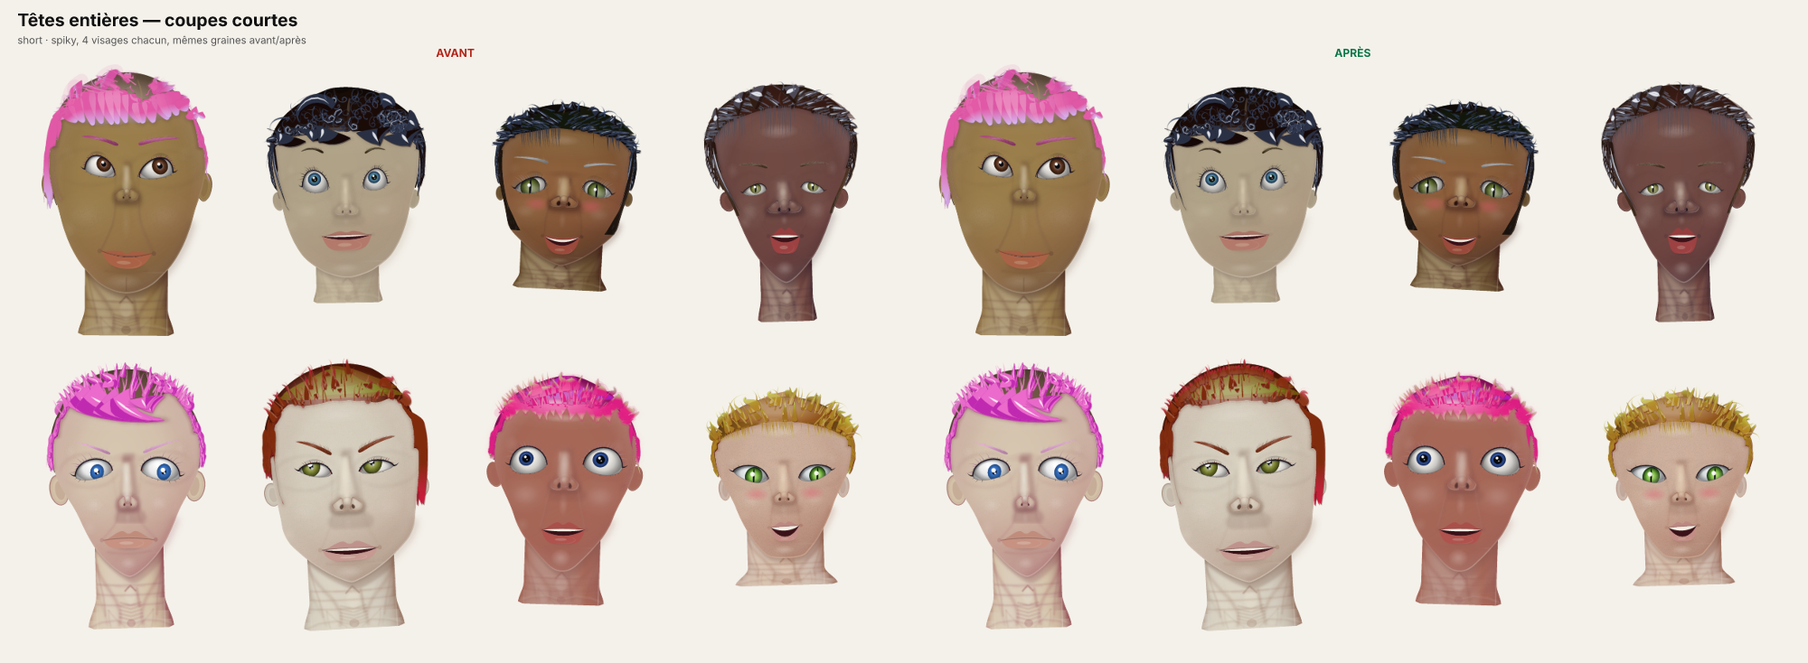
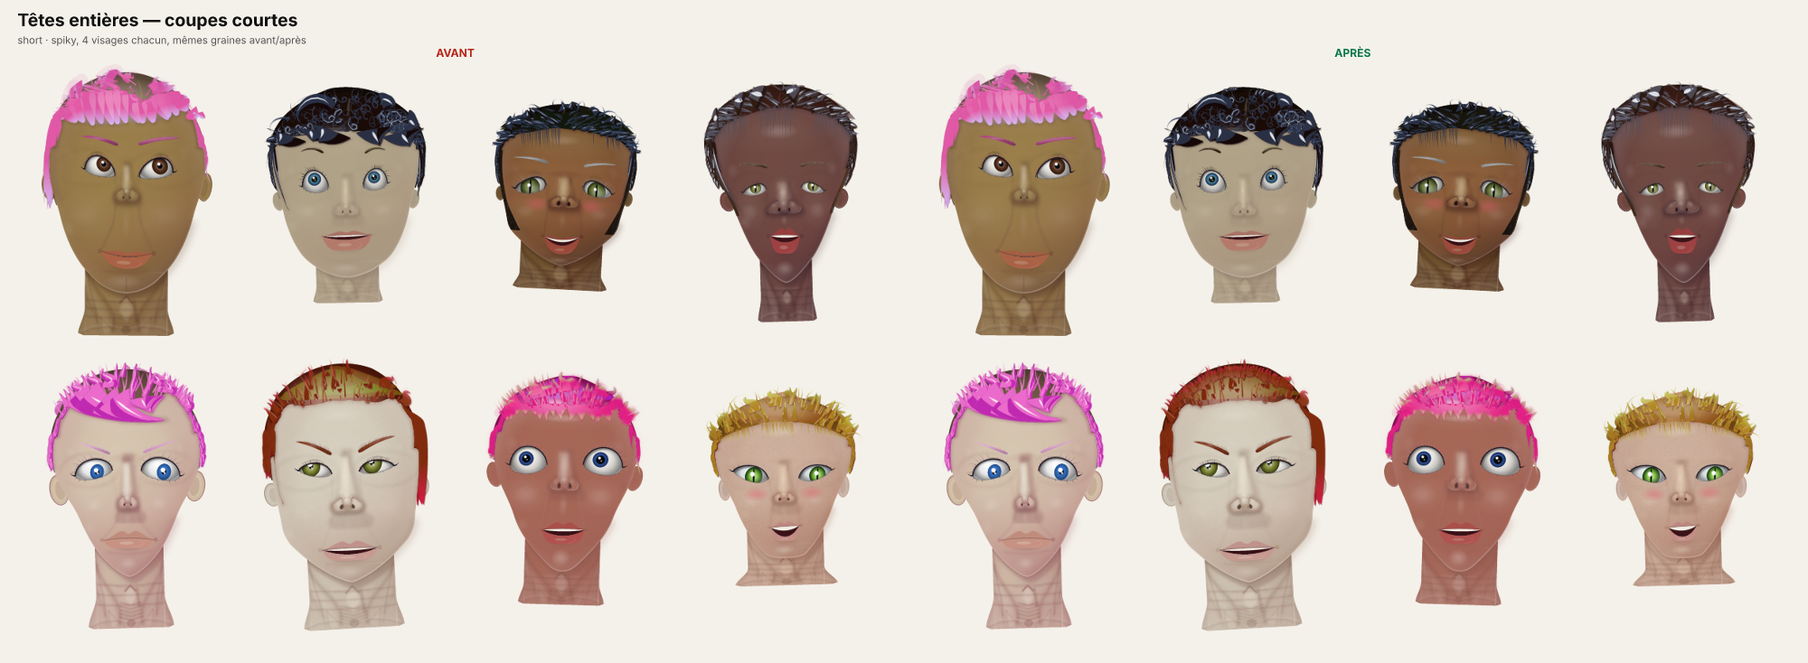
fix(hair): dôme des cheveux pendants — essais de racine du remplissage, teinte d'étage plafonnée, contrôle tier-hue-near-hair
- crown-fill : une mèche sans gain (le champ la ramène sur du déjà couvert) est refaite de 3 racines avant de condamner la cellule ;
  cibles bob/long resserrées (0,30/0,35). Bord nu mesuré : long 0,76 → 0,22, bob 0,76 → 0,35 (8 visages).
- hair-look : décalage de teinte des sous-couches d'étage plafonné à ±24° (tierHueShift, source unique rendu + vérification) ;
  avant, underHue × étage cumulait jusqu'à 66° (sous-couche vert olive sous cheveux rouges).
- verify/hair-form : contrôle tier-hue-near-hair + contrôle négatif (ancienne formule non bornée refusée).
- tests : hair-v2 « pointes » exclut les mèches de remplissage du total de sommets.
- artefacts : « avant » régénéré depuis 2869446 (parent du premier commit : même cou), rapport 8 contrôles ; docs et limites mises à jour (HAIR-FORM #9).

Claude-Session: https://claude.ai/code/session_012NmAWHjndng3LSVc1q7ofY

diff --git a/src/face/hair/crown-fill.ts b/src/face/hair/crown-fill.ts
@@ -39,8 +39,8 @@ export const FILL: Partial<Record<Style, FillSpec>> = {
   spiky: { rim: 0.4, all: 0.45, len: 0.09, max: 80 },
   curly: { rim: 0.25, all: 0.3, len: 0.12, max: 110 },
   afro: { rim: 0.2, all: 0.25, len: 0.16, max: 140 },
-  bob: { rim: 0.45, all: 0.5, len: 0.12, max: 60 },
-  long: { rim: 0.45, all: 0.5, len: 0.12, max: 60 },
+  bob: { rim: 0.3, all: 0.35, len: 0.12, max: 60 },
+  long: { rim: 0.3, all: 0.35, len: 0.12, max: 60 },
 };
 
 /**
@@ -131,20 +131,28 @@ export function fillShell(ctx: HairCtx, base: Poly, existing: readonly HairLock[
     }
     if (best < 0) break;
     const c = centerOf(g, best);
-    // Racine EN RETRAIT sur la normale (la mèche traverse la cellule en allant vers l'extérieur), toujours au-dessus de l'implantation.
+    // Essais de racine : en retrait sur la normale (la mèche traverse la cellule en allant vers l'extérieur), puis à la cellule, puis en retrait double.
+    // Une mèche qui ne couvre aucune cellule nouvelle (le champ la ramène sur du déjà couvert) est refaite d'un autre point avant de condamner la cellule.
     const len = spec.len * H, nrm = { x: c.x - ctx.C.x, y: c.y - ctx.C.y }, nl = Math.hypot(nrm.x, nrm.y) || 1;
-    let R: Vec = { x: c.x - (nrm.x / nl) * 0.5 * len, y: c.y - (nrm.y / nl) * 0.5 * len };
-    if (R.y > hl.yAt(R.x) - 0.012 * H || indexAt(g, R.x, R.y) < 0 || !inside[indexAt(g, R.x, R.y)]) R = c;
-    const pts = growLock(ctx, R, len);
-    // Rognée au bord de la coque : la mèche texture le contour, elle ne le dépasse pas.
-    let keep = pts.length;
-    for (let k = 2; k < pts.length; k++) { const q = pts[k] as Vec, ix = indexAt(g, q.x, q.y); if (ix < 0 || !inside[ix]) { keep = k; break; } }
-    if (keep < 5) { dead[best] = 1; continue; }
     const wd = (def.mainW[0] + def.mainW[1] * h.volume) * W * (0.9 + 0.3 * rnd());
-    const made = lockFrom(ctx, pts.slice(0, keep), { width: wd, rank: 'main', tone: -(0.04 + 0.26 * rnd()), layer: 'front', sharp: def.sharp, edgeFade: h.tips.edgeFade, flick: h.tips.flick, ragged: h.tips.irregular, reach: 'cranial' });
-    let gain = 0;
-    for (const l of made) gain += paint(g, l.poly, cover);
-    if (gain < 2) { dead[best] = 1; continue; }
+    const tone = -(0.04 + 0.26 * rnd());
+    let made: HairLock[] = [];
+    for (const back of [0.5, 0, 1]) {
+      let R: Vec = { x: c.x - (nrm.x / nl) * back * len, y: c.y - (nrm.y / nl) * back * len };
+      if (R.y > hl.yAt(R.x) - 0.012 * H || indexAt(g, R.x, R.y) < 0 || !inside[indexAt(g, R.x, R.y)]) R = c;
+      const pts = growLock(ctx, R, len);
+      // Rognée au bord de la coque : la mèche texture le contour, elle ne le dépasse pas.
+      let keep = pts.length;
+      for (let k = 2; k < pts.length; k++) { const q = pts[k] as Vec, ix = indexAt(g, q.x, q.y); if (ix < 0 || !inside[ix]) { keep = k; break; } }
+      if (keep < 5) continue;
+      const trial = lockFrom(ctx, pts.slice(0, keep), { width: wd, rank: 'main', tone, layer: 'front', sharp: def.sharp, edgeFade: h.tips.edgeFade, flick: h.tips.flick, ragged: h.tips.irregular, reach: 'cranial' });
+      // Gain mesuré sur une copie : on ne retient que l'essai qui couvre la cellule visée.
+      const probe = cover.slice(); let gain = 0;
+      for (const l of trial) gain += paint(g, l.poly, probe);
+      if (gain >= 2 && probe[best]) { made = trial; break; }
+    }
+    if (!made.length) { dead[best] = 1; continue; }
+    for (const l of made) paint(g, l.poly, cover);
     strands++;
     out.push(...made.map((l): HairLock => ({ ...l, fill: strands })));
   }

diff --git a/src/verify/hair-form.ts b/src/verify/hair-form.ts
@@ -1,3 +1,4 @@
+import { toHsl } from '../appearance';
 import { faceLandmarks } from '../face';
 import { hairGeometry, type HairGeometry } from '../face/hair';
 import { FILL, fillKeep, relaxedBare, shellCoverage } from '../face/hair/crown-fill';
@@ -5,6 +6,7 @@ import { distanceOutsideSkull } from '../face/hair/thickness';
 import { REACH } from '../face/hair/reach';
 import { inPoly } from '../face/poly';
 import type { RandomFace } from '../generation/random-face';
+import { UNDER_HUE_MAX, hairAppearance, tierHueShift } from '../render/face/hair-look';
 import { check, type Check } from './types';
 
 /**
@@ -23,12 +25,17 @@ import { check, type Check } from './types';
  *    `fill-clears-free-ear-{left,right}`  aucune mèche de corps dans la zone d'une oreille qui doit rester dégagée
  *                           (une mèche sous l'implantation n'est PAS une erreur : frange et cheveux pendants y descendent ; yeux et sourcils : `guard.ts`) ;
  *  STYLE      — la forme reste du cheveu de la coiffure :
+ *    `tier-hue-near-hair`   la sous-couche d'étage reste dans la famille de teinte des cheveux : écart de teinte (rendu) ≤ `UNDER_HUE_MAX` + 24° (`tone()` seul en
+ *                           décale jusqu'à 21° : mesuré sur 720 étages) ; avant le plafond, 66° : sous-couche vert olive sous des cheveux rouges. Cheveux gris (saturation < 0,15) exclus ;
  *    `fill-style-scope`     seules les coiffures de `FILL` reçoivent un remplissage, dans son plafond : chignon, queue, tresses, coupe rase et cheveux simulés restent des aplats / leur propre moteur.
  */
 type Style = Exclude<RandomFace['params']['hair']['style'], 'bald'>;
 const HANG: readonly string[] = ['bob', 'long'];
 
-export function checkHairForm(face: RandomFace, override?: HairGeometry): Check[] {
+const hueGap = (a: number, b: number): number => { const d = Math.abs(a - b) % 360; return Math.min(d, 360 - d); };
+
+/** `shift` : décalage de teinte appliqué à un étage (le rendu) ; remplaçable pour les contrôles négatifs. */
+export function checkHairForm(face: RandomFace, override?: HairGeometry, shift: typeof tierHueShift = tierHueShift): Check[] {
   const p = face.params;
   if (p.hair.style === 'bald') return [];
   const lm = faceLandmarks(p, face.width, face.height);
@@ -60,6 +67,12 @@ export function checkHairForm(face: RandomFace, override?: HairGeometry): Check[
   }
 
   // --- style ---
+  const ra = hairAppearance(p.hair), base = toHsl(ra.base);
+  if (base.s >= 0.15 && geo.tierMasses.length) {
+    let gap = 0;
+    for (const m of geo.tierMasses) gap = Math.max(gap, hueGap(toHsl(ra.tone(p.hair.tiers.underTone * Math.min(1, 0.6 + 0.2 * m.tier))).h + shift(p.hair, m.tier), base.h));
+    out.push(check('style', 'tier-hue-near-hair', '<=', gap, UNDER_HUE_MAX + 24, 'la sous-couche d\'étage change de famille de teinte : plaque étrangère sous les mèches'));
+  }
   const nFill = new Set(geo.locks.filter((l) => l.fill).map((l) => l.fill)).size;
   out.push(check('style', 'fill-style-scope', '<=', nFill, spec && !p.hair.sim.enabled ? spec.max : 0, spec && !p.hair.sim.enabled ? 'plus de mèches de remplissage (indices distincts) que le plafond de la coiffure' : 'cette coiffure est un aplat (rase, attachée, simulée) : elle ne reçoit aucune mèche de remplissage'));
   return out;

diff --git a/src/render/face/hair.ts b/src/render/face/hair.ts
@@ -11,7 +11,7 @@ import type { FaceParams } from '../../schema';
 import { hairGloss, hairlineTransition, smoothPath } from './hair-detail';
 import { lockMarkup, type LockStyle } from './hair-lock';
 import { backMassFill } from './hair-back-fade';
-import { backMassColor, hairAppearance, rootColorOf } from './hair-look';
+import { backMassColor, hairAppearance, rootColorOf, tierHueShift } from './hair-look';
 import { polyPath } from './path';
 import { profileOf } from '../../face/hair/sim/profiles';
 import { sheenBands } from '../../face/hair/sim/sheen';
@@ -91,7 +91,7 @@ export function renderHair(id: string, p: FaceParams, lm: FaceLandmarks, L: Ligh
   // Sous-couches visibles par étage : silhouette plus sombre / décalée de teinte, sous les mèches de l'étage.
   // Une silhouette d'étage englobe la tête : DEVANT la tête elle est rognée par la sous-couche (jamais sur le visage),
   // et une copie est dessinée DERRIÈRE la tête pour la part qui dépasse du crâne.
-  const massEl = (m: (typeof geo.tierMasses)[number]): string => el('path', { d: smoothPath(m.poly), fill: hueShift(ra.tone(h.tiers.underTone * Math.min(1, 0.6 + 0.2 * m.tier)), h.tiers.underHue * m.tier), opacity: h.tiers.underVisible });
+  const massEl = (m: (typeof geo.tierMasses)[number]): string => el('path', { d: smoothPath(m.poly), fill: hueShift(ra.tone(h.tiers.underTone * Math.min(1, 0.6 + 0.2 * m.tier)), tierHueShift(h, m.tier)), opacity: h.tiers.underVisible });
   if (geo.tierMasses.length) body.push(el('g', { 'clip-path': urlRef(clipId) }, geo.tierMasses.map(massEl)));
   back.unshift(...geo.tierMasses.map(massEl));
   if (geo.simMass) body.push(el('path', { d: smoothPath(geo.simMass), fill: ink ?? ra.tone(-0.42), stroke: ink, 'stroke-width': ink ? lm.W * 0.0042 : undefined, 'stroke-linejoin': 'round' }));

diff --git a/tests/hair-form.test.ts b/tests/hair-form.test.ts
@@ -5,6 +5,7 @@ import { gridOver, paint } from '../src/face/hair/coverage';
 import { FILL, shellCoverage } from '../src/face/hair/crown-fill';
 import { inPoly } from '../src/face/poly';
 import { checkHairForm } from '../src/verify/hair-form';
+import type { tierHueShift } from '../src/render/face/hair-look';
 import { HAIR_STYLES } from '../src/schema';
 import { hairFaceSpec, type CleanStyle } from '../scripts/lib/hair-faces';
 
@@ -136,5 +137,17 @@ describe('contrôles négatifs : chaque contrôle sait échouer', () => {
     expect(b, 'population contrôlée non vide').toBeDefined();
     const far = { ...b!, poly: b!.poly.map((q) => ({ x: q.x + Math.sign(q.x || 1) * 0.6 * lmOf(f).W, y: q.y })) };
     expect(failing(f, { ...g, locks: [...g.locks, far] } as HairGeometry).map((c) => c.id)).toContain('fill-within-reach');
+  });
+
+  it('tier-hue-near-hair : la teinte d\'étage cumulée sans plafond (ancien rendu) est refusée, le rendu actuel est accepté', () => {
+    const uncapped = ((h: { tiers: { underHue: number } }, t: number) => h.tiers.underHue * t) as typeof tierHueShift;
+    for (let k = 0; k < 40; k++) {
+      const f = face('long', k), p = f.params.hair;
+      if (p.tiers.count < 3 || Math.abs(p.tiers.underHue) * p.tiers.count < 60) continue;
+      expect(checkHairForm(f, undefined, uncapped).filter((c) => !c.ok).map((c) => c.id)).toContain('tier-hue-near-hair');
+      expect(checkHairForm(f).filter((c) => !c.ok).map((c) => c.id)).not.toContain('tier-hue-near-hair');
+      return;
+    }
+    throw new Error('aucun visage à étages très décalés dans l\'échantillon');
   });
 });

diff --git a/scripts/artefacts-hair-form.ts b/scripts/artefacts-hair-form.ts
@@ -122,7 +122,7 @@ async function compose(): Promise<void> {
   pair('tetes-courtes', 1200, 800, '01a-tetes-short-spiky', 'Têtes entières — coupes courtes', 'short · spiky, 4 visages chacun, mêmes graines avant/après', false);
   pair('tetes-volume', 1200, 800, '01b-tetes-curly-afro', 'Têtes entières — coupes volumineuses', 'curly · afro : le dôme est dessiné par des mèches, plus un casque lisse', false);
   pair('tetes-pendantes', 1200, 800, '01c-tetes-bob-long', 'Têtes entières — cheveux pendants', 'bob · long : le dessus du crâne reçoit des mèches ; la retombée est inchangée', false);
-  pair('tetes-inchangees', 1200, 1600, '01d-tetes-non-modifiees', 'Contrôle négatif — coiffures qui ne doivent PAS changer', 'buzz · bun · ponytail · braids : aplats par anatomie, identiques avant/après', false);
+  pair('tetes-inchangees', 1200, 1600, '01d-tetes-non-modifiees', 'Contrôle négatif — coiffures qui ne doivent PAS changer', 'buzz · bun · ponytail · braids : aucune mèche ajoutée (aplats par anatomie) ; seule la teinte des sous-couches d\'étage, plafonnée à 24°, change sur 6 visages', false);
   pair('details', 2300, 520, '03-details-dessus-du-crane', 'Détails : dessus du crâne', 'afro · curly · short · spiky · long en gros plan', true);
   await overlay();
   const { rows, faces, cov, same } = await report();

diff --git a/src/render/face/hair-look.ts b/src/render/face/hair-look.ts
@@ -32,6 +32,14 @@ export const backMassColor = (ra: ResolvedAppearance): string => ra.tone(BACK_MA
 export const ROOT_MIN_RATIO = 0.42;
 
 /**
+ * Décalage de teinte MAXIMAL (degrés) d'une sous-couche d'étage par rapport aux cheveux (`docs/HAIR-FORM.md`). Avant : `underHue × étage`, cumulé sans borne
+ * (16,5° × 4 étages = 66° : des cheveux rouges montraient une sous-couche vert olive, lue comme une plaque étrangère sur le dessus du crâne). Un ombré d'étage
+ * reste dans la famille de teinte des cheveux. Source unique : rendu ET vérification.
+ */
+export const UNDER_HUE_MAX = 24;
+export const tierHueShift = (h: FaceParams['hair'], tier: number): number => Math.max(-UNDER_HUE_MAX, Math.min(UNDER_HUE_MAX, h.tiers.underHue * tier));
+
+/**
  * Teinte de la sous-couche racine (coque). `rootColor` explicite (repousse brune sur cheveux teints, 15 % des visages) ou ombre à 55 %. Mesuré avant :
  * rapport de luminance racine / cheveux jusqu'à 0,02 (#2b2320 sous #c58614) : un dôme noir sous des mèches clairsemées, où le reflet satin de la coque
  * se lit comme un trou gris. La teinte est ramenée vers la couleur des cheveux juste assez pour atteindre `ROOT_MIN_RATIO` (dichotomie, direction de teinte conservée).

diff --git a/tests/hair-v2.test.ts b/tests/hair-v2.test.ts
@@ -162,8 +162,9 @@ describe('racines, côtés, occlusions, étages, pointes', () => {
   it('pointes : retroussées (direction change) et irrégulières (plus de sommets)', () => {
     const a = geoOf(36, { ...BASE, flow: { mode: 'classic' } }).geo;
     const b = geoOf(36, { ...BASE, tips: { irregular: 1, flick: 1 } }).geo;
-    const vA = a?.locks.reduce((s, l) => s + l.poly.length, 0) ?? 0;
-    const vB = b?.locks.reduce((s, l) => s + l.poly.length, 0) ?? 0;
+    // Hors remplissage de coque : son nombre de mèches dépend de la géométrie (boucle jusqu'au seuil), pas des pointes.
+    const vA = a?.locks.filter((l) => !l.fill).reduce((s, l) => s + l.poly.length, 0) ?? 0;
+    const vB = b?.locks.filter((l) => !l.fill).reduce((s, l) => s + l.poly.length, 0) ?? 0;
     expect(vB).toBeGreaterThan(vA);
   });
 

diff --git a/docs/HAIR-FORM.md b/docs/HAIR-FORM.md
@@ -9,15 +9,15 @@ lisse dont le bord faisait la silhouette** (aucune texture de cheveu sur 0,25 H 
 
 | coiffure | avant moy. | avant max | après moy. | après max |
 |---|---:|---:|---:|---:|
-| short | 0,60 | 0,83 | 0,41 | 0,47 |
-| spiky | 0,47 | 0,74 | 0,42 | 0,59 |
-| curly | 0,56 | 0,78 | 0,33 | 0,56 |
-| afro | 0,70 | 0,88 | 0,31 | 0,43 |
-| bob | 0,76 | 0,98 | 0,53 | 0,64 |
-| long | 0,76 | 0,93 | 0,47 | 0,68 |
+| short | 0,60 | 0,83 | 0,36 | 0,40 |
+| spiky | 0,47 | 0,74 | 0,41 | 0,58 |
+| curly | 0,56 | 0,78 | 0,32 | 0,55 |
+| afro | 0,70 | 0,88 | 0,29 | 0,41 |
+| bob | 0,76 | 0,98 | 0,35 | 0,58 |
+| long | 0,76 | 0,93 | 0,22 | 0,31 |
 
-Les coiffures attachées (`ponytail`, `bun`, `braids`) et la coupe rase (`buzz`) sont **inchangées au bit près** (`artefacts/hair-form/01d`, comparaison des PNG) : leur aplat est leur anatomie.
-Ce n'est pas zéro : il reste 30 à 50 % du bord nu pour les coiffures à volume (voir `HAIR-FORM-REMAINING.md` 1).
+Les coiffures attachées (`ponytail`, `bun`, `braids`) et la coupe rase (`buzz`) ne reçoivent **aucune mèche** (`artefacts/hair-form/01d`) : leur aplat est leur anatomie. Pixels : égaux au bit à l'« avant » avec le plafond de teinte désactivé ; avec lui, seule la teinte d'étage de 6 visages change (voir plus bas).
+Ce n'est pas zéro : il reste 30 à 40 % du bord nu pour les coiffures à volume (voir `HAIR-FORM-REMAINING.md` 1).
 
 ## La mesure : grille de couverture (`coverage.ts`)
 Rastérisation scanline sur une grille de pas 0,012 W, règle **nonzero** (comme le rendu SVG des mèches : une mèche bouclée dont le contour se recoupe reste couverte ; `inPoly` pair-impair y ferait un trou).
@@ -29,11 +29,21 @@ Pour `short, spiky, curly, afro, bob, long` (table `FILL` : seuils `rim` / `all`
 extérieure (départage aléatoire d'une demi-cellule), on y enracine une mèche du style local (`growLock` + `lockFrom` : même champ de direction, même texture, même largeur que les mèches de corps),
 en retrait sur la normale, puis on la **rogne au bord de la coque** : elle texture le contour sans le dépasser. Une mèche qui n'ajoute pas ≥ 2 cellules est abandonnée.
 - **Graine propre** et exécution **en dernier** : le reste de la chevelure est identique avec ou sans remplissage. Vérifié : 80 visages sur 80 ont le même nombre de formes qu'avant, hors remplissage
-  (comparaison avec le code du commit d'origine rendu dans un worktree ; `rapport-verification.md`).
+  (comparaison avec le parent `2869446` du premier commit, rendu dans un worktree ; `rapport-verification.md`).
 - **Oreille dégagée** : les formes qui entrent dans la zone d'une oreille libre sont écartées. **Éclaircissement** : `bareScalp(...).thin` (zones clairsemées voulues) n'est ni enraciné ni exigé ; la cible est
   relâchée par `fillKeep = 1 − 0,5 × thinning` (source unique). La densité n'y entre pas (essayé : la prendre en compte rendait presque tout le gain, bord nu de l'afro 0,26 → 0,45).
 - Les formes portent `fill = indice de la mèche` (`HairLock.fill`) : une mèche tressée est plusieurs formes. Les mesures de dispersion de longueur les excluent (`tests/hair-system.test.ts`).
+- **Essais de racine** (série 2) : une mèche qui n'ajoute aucune cellule nouvelle (le champ la ramène sur du déjà couvert) et ne couvre pas la cellule visée est refaite d'un autre point (retrait 0,5 puis 0 puis 1 longueur)
+  avant de condamner la cellule. Mesuré avant : 1 264 mèches abandonnées sur 1 561 échecs (`bob`/`long`, 10 visages), la boucle s'arrêtait à 20–40 mèches sans atteindre sa cible (bord nu `long` 0,52, `bob` 0,60).
+- **Cibles `bob` / `long` resserrées** (0,45/0,50 → 0,30/0,35) : le dessus du crâne des cheveux pendants montrait la sous-couche racine en plaque. Mesuré : bord nu `long` 0,52 → 0,33 → (8 visages imposés) 0,22, `bob` 0,60 → 0,30.
 - Pas de remplissage pour les cheveux simulés (`sim.enabled`) : leur drapé est résolu par leur moteur.
+
+## La « plaque » sur le dessus des cheveux longs (cause trouvée)
+Deux causes, aucune n'était la raie ni l'éclaircissement (`thinning` = 0, aucune zone claire sur les visages examinés) :
+1. **Couverture** : le dôme de `bob`/`long` restait nu (bord nu 0,52–0,60), la sous-couche racine se voyait. Corrigé ci-dessus (essais de racine, cibles).
+2. **Teinte d'étage cumulée sans borne** : la sous-couche d'un étage était décalée de `tiers.underHue × étage` (jusqu'à 16,5° × 4 = 66° sur le visage rouge examiné) : des cheveux rouges montraient une
+   sous-couche **vert olive**. Le décalage est désormais borné à ±`UNDER_HUE_MAX` = 24° (`tierHueShift`, `hair-look.ts`, source unique rendu + vérification).
+Non traité : la racine sombre voulue (`rootColor`, tirée sur ~14 % des visages : racines brunes sous cheveux teints) reste visible sur le rose ; c'est un choix du moteur, plus couvert par les mèches mais pas supprimé.
 
 ## La couche de vérification (`hair-form.ts`, branchée dans `verifyFace`)
 | couche | contrôle | gravité | règle |
@@ -43,9 +53,10 @@ en retrait sur la normale, puis on la **rogne au bord de la coque** : elle textu
 | géométrie | `fill-within-reach` | erreur | forme bornée ≤ portée de la coiffure (`REACH`) + vent + 0,02 W |
 | géométrie | `fringe-reach-bound` | erreur | frange ≤ `REACH.side` + 0,05 W du crâne (max mesuré 0,161 W sur le corpus) |
 | anatomie | `fill-clears-free-ear-{left,right}` | erreur | ≤ 3 mèches dans la zone d'une oreille qui doit rester dégagée (max mesuré 2) |
+| style | `tier-hue-near-hair` | erreur | écart de teinte rendu (sous-couche d'étage / cheveux) ≤ `UNDER_HUE_MAX` + 24° (`tone()` seul en décale jusqu'à 21° ; max mesuré 33,5°) ; gris exclus |
 | style | `fill-style-scope` | erreur | nombre de mèches de remplissage ≤ plafond de la coiffure ; 0 pour rase, attachées, simulées |
 
-Chaque contrôle a un **contrôle négatif** qui le fait échouer (`tests/hair-form.test.ts`, 14 tests). Corpus de mesure : 10 coiffures × 8 visages imposés + 120 visages aléatoires (rapport : `artefacts/hair-form/rapport-verification.md`).
+Chaque contrôle a un **contrôle négatif** qui le fait échouer (`tests/hair-form.test.ts`, 15 tests ; le contrôle de teinte est refusé avec l'ancienne formule non bornée). Corpus de mesure : 10 coiffures × 8 visages imposés + 120 visages aléatoires (rapport : `artefacts/hair-form/rapport-verification.md`).
 
 ## Essais abandonnés (honnêteté du processus)
 - **`fill-above-hairline`** (« aucune mèche sous l'implantation ») : écrit, mesuré, retiré. Sa première version ne contrôlait personne (0,000 : population vide, les mèches de corps sont `kind: 'lock'`, pas `undefined`).

diff --git a/docs/HAIR-FORM-REMAINING.md b/docs/HAIR-FORM-REMAINING.md
@@ -3,18 +3,18 @@
 Fait : `HAIR-FORM.md`. Chaque ligne est une limite mesurée ou constatée sur les planches `artefacts/hair-form/` ; rien n'est caché. Les listes précédentes restent valables : `HAIR-SKULL-REMAINING.md`, `HAIR-COHERENCE-REMAINING.md`, `HAIR-BOUNDARY-REMAINING.md`.
 
 ## Remplissage de la coque (`crown-fill.ts`)
-1. **Bord encore nu** : 0,31 (afro) à 0,53 (bob) en moyenne, jusqu'à 0,68 (long). 4 visages sur 121 dépassent le seuil d'avertissement `shell-rim-bare` (marge minimale −0,095). Les cibles `FILL.rim` (0,2 à 0,45) ne sont pas atteintes partout : la boucle s'arrête au plafond ou faute de mèche utile.
+1. **Bord encore nu** : 0,22 (long) à 0,41 (spiky) en moyenne sur 8 visages, jusqu'à 0,58. 1 visage sur 121 dépasse le seuil d'avertissement `shell-rim-bare` (marge minimale −0,088). Les cibles `FILL.rim` (0,2 à 0,45) ne sont pas atteintes partout : la boucle s'arrête au plafond ou faute de mèche utile.
 2. **Seuils et longueurs posés à la main** (`rim`, `all`, `len`, `max`, 0,5 pour le bord, 0,75 dur) sur 80 visages imposés + 120 aléatoires ; pas de référence dessinée par un illustrateur.
 3. **Longueur de remplissage fixe** (`FILL.len` × H) : pas dérivée de la longueur réelle de la coiffure ni de `lengthVariance`.
 4. **Raie (`bare.part`)** : non exclue du remplissage ; des mèches peuvent la recouvrir. Non mesuré.
-5. **Coût** : boucle en O(plafond × cellules). Huit géométries `afro` (génération du visage comprise) ≈ 2,1 s ; le coût du remplissage seul n'a pas été isolé. Pistes : grille plus grossière, file de priorité, cache par mèche.
+5. **Coût** : boucle en O(plafond × cellules), avec jusqu'à 3 essais de racine par cellule (une copie de la grille de couverture par essai). Mesuré : 8 `hairGeometry` d'afro ≈ 1,9 s (≈ 230 ms chacune, géométrie seule, remplissage compris ; son coût isolé n'a pas été mesuré). Pistes : grille plus grossière, file de priorité, essais sans copie de grille.
 6. **Pas d'interrupteur** du remplissage dans le moteur : le « avant » des artefacts se rend depuis un worktree du commit d'origine (`artefacts/hair-form/README.md`).
 7. **Coiffures hors `FILL`** : `ponytail` (bord nu 0,88 en moyenne), `bun` (jusqu'à 1,00), `braids`, `buzz` (0,98) restent des aplats. Choisi pour l'anatomie (cheveux tirés, ras), mais le dessus d'un chignon ou d'une queue montre un dôme lisse : revue humaine à faire.
 
 ## Défauts visibles NON traités
 8. **Frange en dents de scie** du `short` (festons réguliers à pointes, `artefacts/hair-form/05` visage 1, ancien `HAIR-BOUNDARY-REMAINING.md` 6) : toujours là. Le bord inférieur de la frange n'est pas régularisé.
-9. **Plaque de cuir chevelu visible** sur le dessus du `long` rose et du `long` rouge (`01c`, rangée du bas) : inchangée ; cause non vérifiée (raie, éclaircissement ou sous-couche).
-10. **`bob` / `long`** : avant/après quasi indiscernables à l'échelle des planches ; le gain est mesuré (bord nu 0,76 → 0,53 et 0,47) mais peu lisible. La retombée n'a pas été retravaillée (`HAIR-SKULL-REMAINING.md` 10 : masse arrière = rectangle arrondi).
+9. **Plaque sur le dessus du `long`** : cause trouvée et corrigée en grande partie (couverture du dôme + teinte d'étage vert olive plafonnée à 24°, `HAIR-FORM.md`). **Reste** : la racine sombre voulue (`rootColor`, ~14 % des visages) reste visible sous des cheveux teints (rose, `01c` rangée du bas, 1ʳᵉ tête). Le plafond de 24° et le seuil de 48° sont posés sur 720 étages mesurés, pas sur une référence artistique.
+10. **`bob` / `long`** : avant/après quasi indiscernables à l'échelle des planches ; le gain est mesuré (bord nu 0,76 → 0,35 et 0,22) et visible sur le dessus du crâne (`01c`), peu à l'échelle de la retombée. La retombée n'a pas été retravaillée (`HAIR-SKULL-REMAINING.md` 10 : masse arrière = rectangle arrondi).
 11. **Dôme lisse résiduel** sur certains afros (rangée du bas de `01b`, visage rouge) : le bord reste nu à 0,43 au pire.
 
 ## Vérification (`hair-form.ts`)
@@ -24,7 +24,7 @@ Fait : `HAIR-FORM.md`. Chaque ligne est une limite mesurée ou constatée sur le
 15. « Rapport OK » ≠ beauté. **Revue humaine nécessaire** sur `artefacts/hair-form/01a`–`01d`, `03`, `05`.
 
 ## Régression visuelle
-16. `npm run regress` relancé après cette série : exit 0, tous les cas `exact` (identiques au pixel). Les 34 images ne contiennent donc aucune coiffure touchée par le remplissage (cause de ce choix de cas non vérifiée). Aucune référence actualisée ; en ajouter avec `afro`, `curly`, `short`, `long` est une décision d'équipe.
+16. `npm run regress` relancé après cette série (et après la série 2 : essais de racine, cibles `bob`/`long`, plafond de teinte) : exit 0, 34/34 `exact` (identiques au pixel). Les 34 images ne contiennent donc aucune coiffure touchée par le remplissage (cause de ce choix de cas non vérifiée). Aucune référence actualisée ; en ajouter avec `afro`, `curly`, `short`, `long` est une décision d'équipe.
 
 ## Hors périmètre (inchangé)
 17. 3D, profil (`src/skull/`), tête tournante, vent couplé à la simulation Verlet, cheveux simulés (`sim`) : voir `HAIR-COHERENCE-REMAINING.md` 8–10 et `HAIR-BOUNDARY-REMAINING.md` 7–14.

diff --git a/artefacts/hair-form/README.md b/artefacts/hair-form/README.md
@@ -7,15 +7,15 @@ Documents : `docs/HAIR-FORM.md` (conception, mesures), `docs/HAIR-FORM-REMAINING
 | `01a-tetes-short-spiky.png` | têtes entières, coupes courtes (4 visages × 2 coiffures), avant | après |
 | `01b-tetes-curly-afro.png` | têtes entières, coupes volumineuses : le dôme reçoit des mèches |
 | `01c-tetes-bob-long.png` | têtes entières, cheveux pendants : gain mesuré mais peu lisible |
-| `01d-tetes-non-modifiees.png` | **contrôle négatif** : buzz, bun, ponytail, braids — identiques avant/après (PNG égaux au bit : `avant/tetes-inchangees.png` = `apres/tetes-inchangees.png`) |
+| `01d-tetes-non-modifiees.png` | **contrôle négatif** : buzz, bun, ponytail, braids — aucune mèche ajoutée. PNG égaux au bit **si l'on désactive le plafond de teinte d'étage** (vérifié : `UNDER_HUE_MAX` = 24000 → identique à `avant/`) ; avec le plafond (24°), seule la teinte des sous-couches d'étage change, sur 6 visages (bun / ponytail / braids, visages 4 et 5) |
 | `03-details-dessus-du-crane.png` | dessus du crâne en gros plan (afro, curly, short, spiky, long), avant au-dessus, après en dessous |
 | `05-diagnostic-couverture.png` | code courant seulement : **cyan = coque encore nue**, magenta = mèches de remplissage, noir = contour de la coque |
-| `rapport-verification.md` | 7 contrôles × 200 visages, part nue avant/après par coiffure, identité du reste de la chevelure (80/80) |
+| `rapport-verification.md` | 8 contrôles × 200 visages, part nue avant/après par coiffure, identité du reste de la chevelure (80/80) |
 | `avant/`, `apres/` | planches brutes et `counts.json` (nombre de formes par visage) |
 
 ## Reproduire
 ```
-git worktree add /tmp/avant 841008c        # commit d'origine (avant le remplissage)
+git worktree add /tmp/avant 2869446        # parent du premier commit du remplissage (84d0e95) : même cou, même peau, sans remplissage
 ln -s "$PWD/node_modules" /tmp/avant/node_modules
 cp scripts/artefacts-hair-form.ts /tmp/avant/scripts/
 (cd /tmp/avant && npx tsx scripts/artefacts-hair-form.ts render "$OLDPWD/artefacts/hair-form/avant")
@@ -23,4 +23,4 @@ npx tsx scripts/artefacts-hair-form.ts compose   # « après » = code courant ;
 ```
 
 ## Lecture honnête
-Le cyan de `05` montre ce qui reste à faire : une part notable du bord est encore nue. La frange en dents de scie du `short` et la plaque de cuir chevelu des cheveux longs ne sont pas traitées (`docs/HAIR-FORM-REMAINING.md` 8, 9). **Revue humaine nécessaire.**
+Le cyan de `05` montre ce qui reste à faire : une part notable du bord est encore nue. La frange en dents de scie du `short` n'est pas traitée ; la plaque des cheveux longs est corrigée (couverture + teinte d'étage plafonnée), sauf la racine sombre voulue sur cheveux teints (`docs/HAIR-FORM-REMAINING.md` 8, 9). **Revue humaine nécessaire.**

diff --git a/artefacts/hair-form/rapport-verification.md b/artefacts/hair-form/rapport-verification.md
@@ -6,11 +6,12 @@ Corpus : 200 visages (10 coiffures × 8 visages imposés ; le reste tiré au has
 |---|---|---:|---:|---:|---:|---:|
 | anatomy | `fill-clears-free-ear-left` | 128 | 0 | 0 | 2.000 | 1.000 |
 | anatomy | `fill-clears-free-ear-right` | 133 | 0 | 0 | 2.000 | 1.000 |
-| geometry | `fill-within-reach` | 196 | 0 | 0 | 0.296 | 0.015 |
+| geometry | `fill-within-reach` | 196 | 0 | 0 | 0.301 | 0.015 |
 | geometry | `fringe-reach-bound` | 196 | 0 | 0 | 0.161 | 0.051 |
-| geometry | `shell-rim-bare` | 121 | 4 | 0 | 0.684 | -0.095 |
+| geometry | `shell-rim-bare` | 121 | 1 | 0 | 0.646 | -0.088 |
 | geometry | `shell-rim-bare-hard` | 73 | 0 | 0 | 0.646 | 0.208 |
 | style | `fill-style-scope` | 196 | 0 | 0 | 140.000 | 0.000 |
+| style | `tier-hue-near-hair` | 116 | 0 | 0 | 33.529 | 14.471 |
 
 « écarts » = contrôles non satisfaits (erreur ou avertissement) ; « marge minimale » = écart le plus serré à la limite DE CE VISAGE (les limites varient avec la coiffure) ; négative = dépassement. `fill-style-scope` compte des mèches de remplissage (plafond par coiffure) ; `fill-clears-free-ear-*` des mèches dans l'oreille (tolérance 3).
 
@@ -19,12 +20,12 @@ Corpus : 200 visages (10 coiffures × 8 visages imposés ; le reste tiré au has
 | coiffure | avant moy. | avant max | après moy. | après max |
 |---|---:|---:|---:|---:|
 | buzz | 0.98 | 1.00 | 0.98 | 1.00 |
-| short | 0.60 | 0.83 | 0.41 | 0.47 |
-| spiky | 0.47 | 0.74 | 0.42 | 0.59 |
-| curly | 0.56 | 0.78 | 0.33 | 0.56 |
-| afro | 0.70 | 0.88 | 0.31 | 0.43 |
-| bob | 0.76 | 0.98 | 0.53 | 0.64 |
-| long | 0.76 | 0.93 | 0.47 | 0.68 |
+| short | 0.60 | 0.83 | 0.36 | 0.40 |
+| spiky | 0.47 | 0.74 | 0.41 | 0.58 |
+| curly | 0.56 | 0.78 | 0.32 | 0.55 |
+| afro | 0.70 | 0.88 | 0.29 | 0.41 |
+| bob | 0.76 | 0.98 | 0.35 | 0.58 |
+| long | 0.76 | 0.93 | 0.22 | 0.31 |
 | ponytail | 0.88 | 1.00 | 0.88 | 1.00 |
 | bun | 0.50 | 1.00 | 0.50 | 1.00 |
 | braids | 0.37 | 0.57 | 0.37 | 0.57 |
